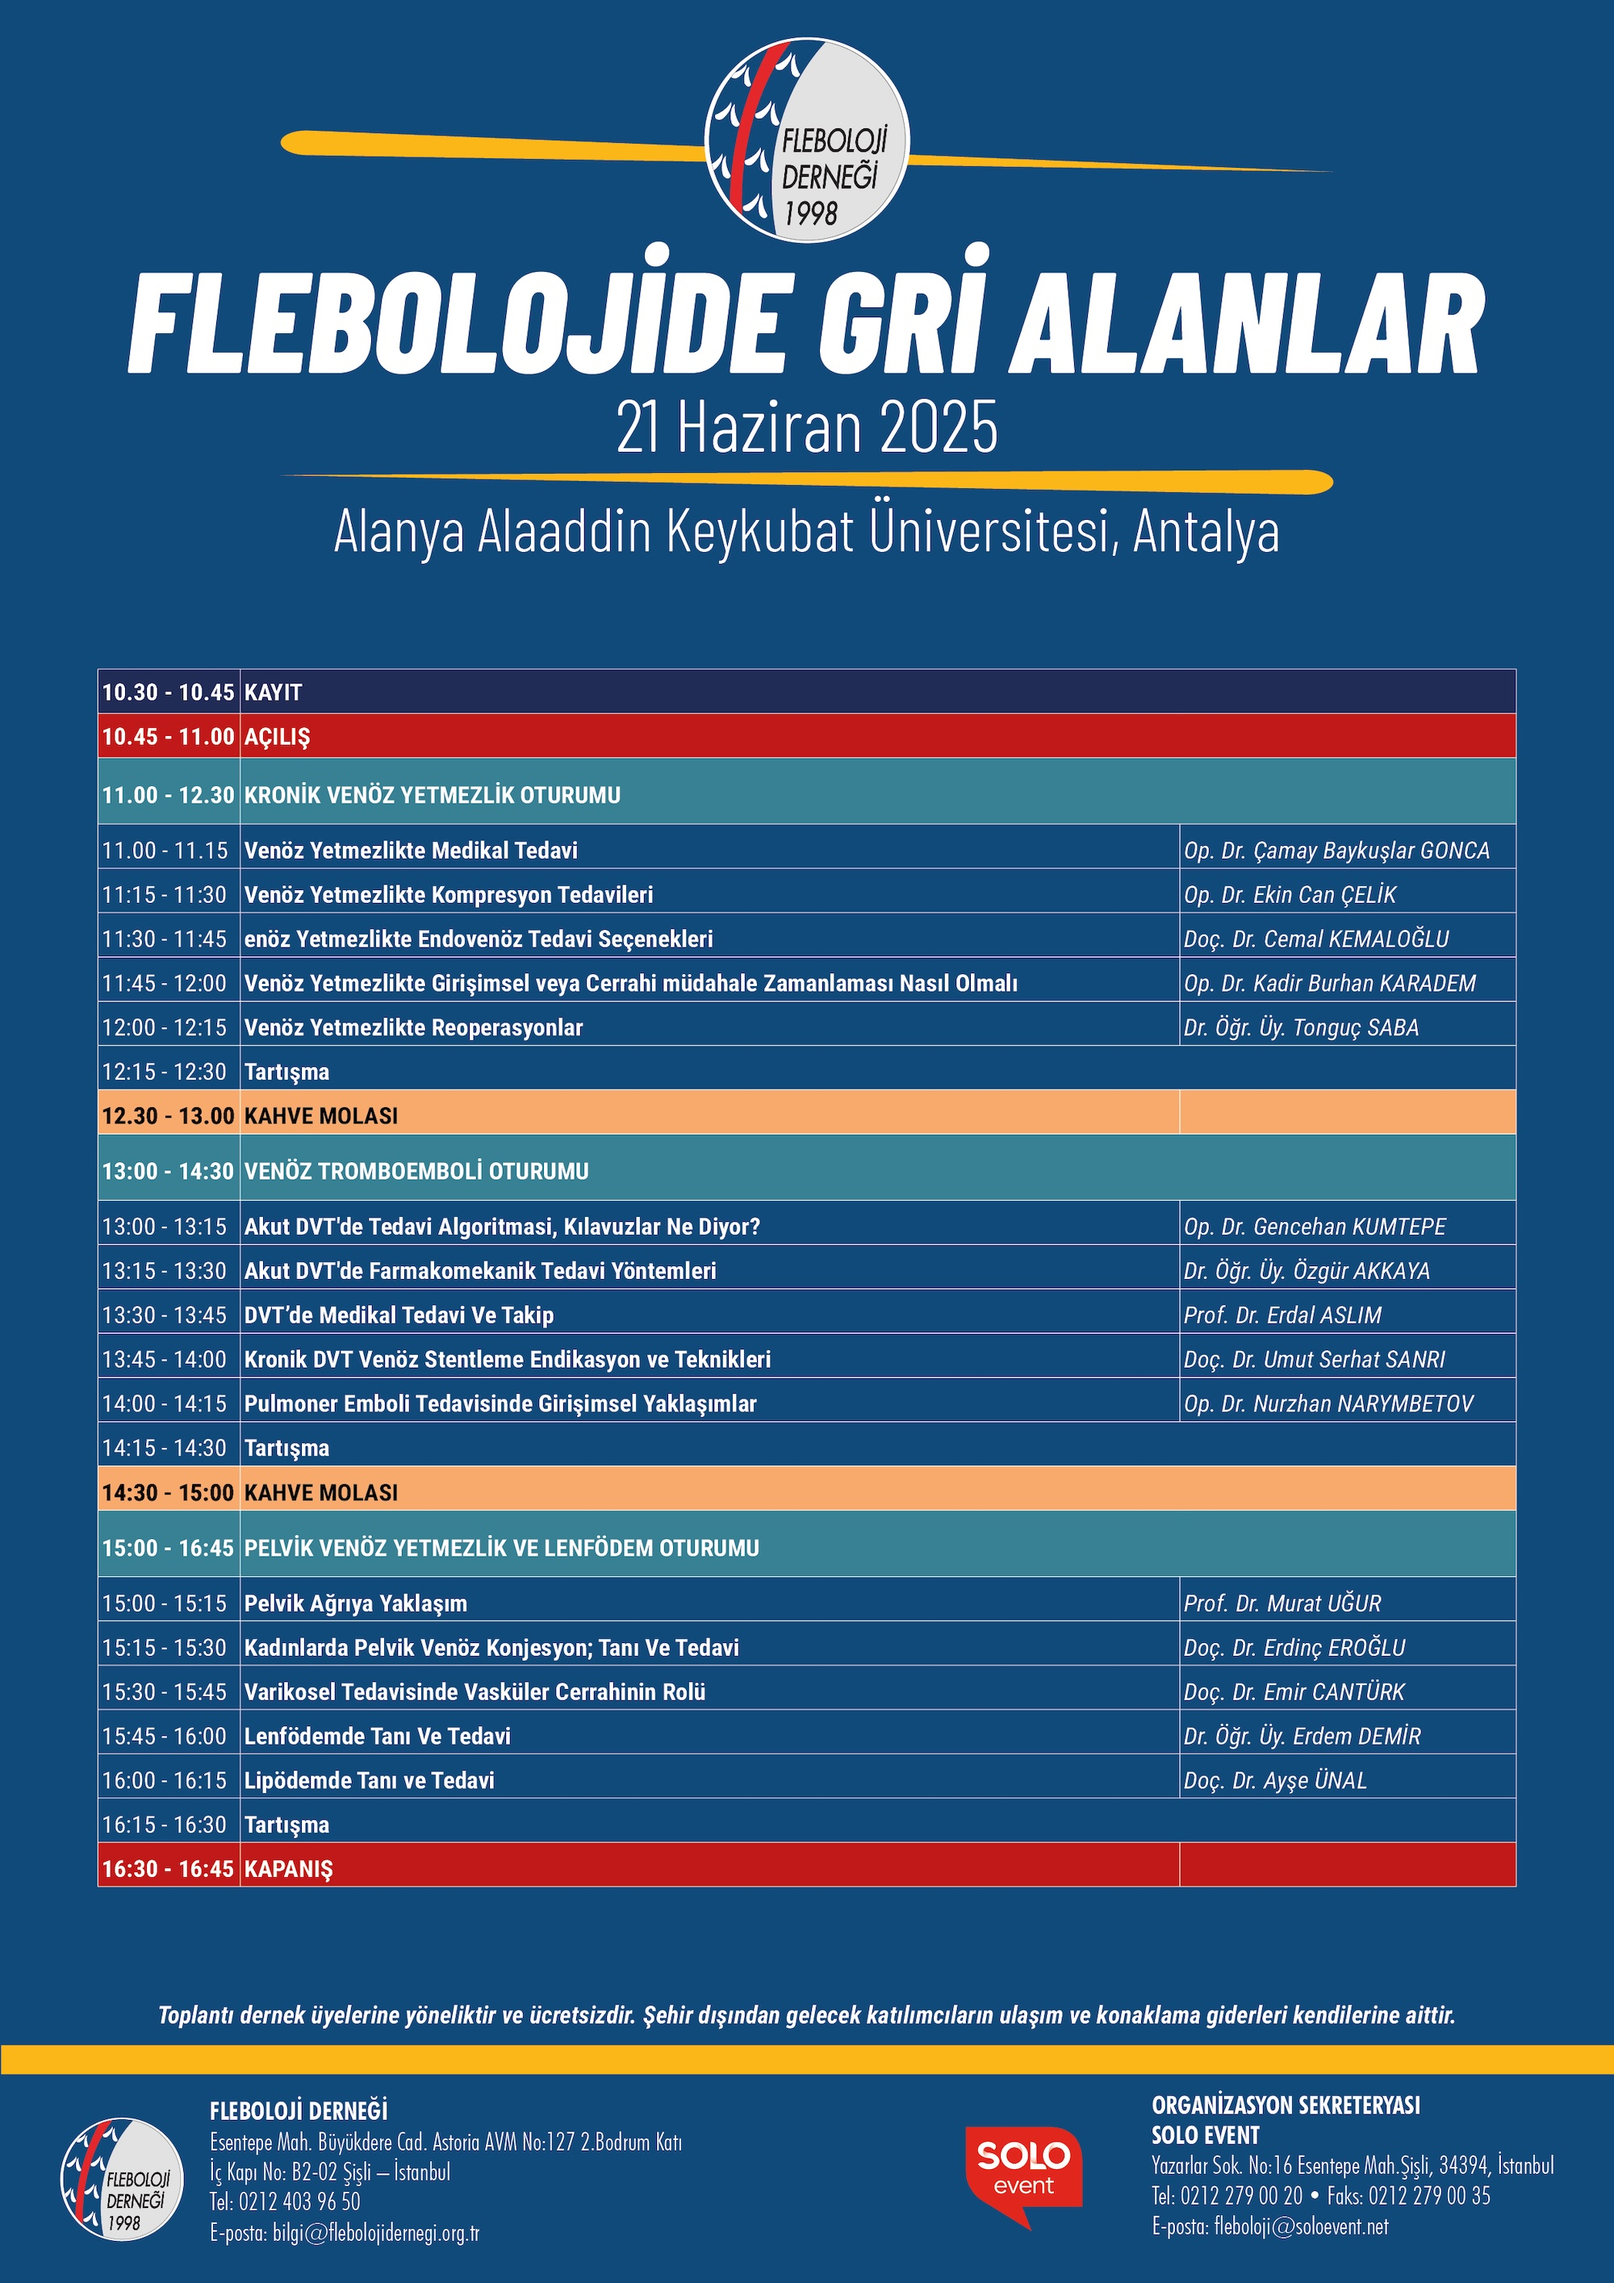
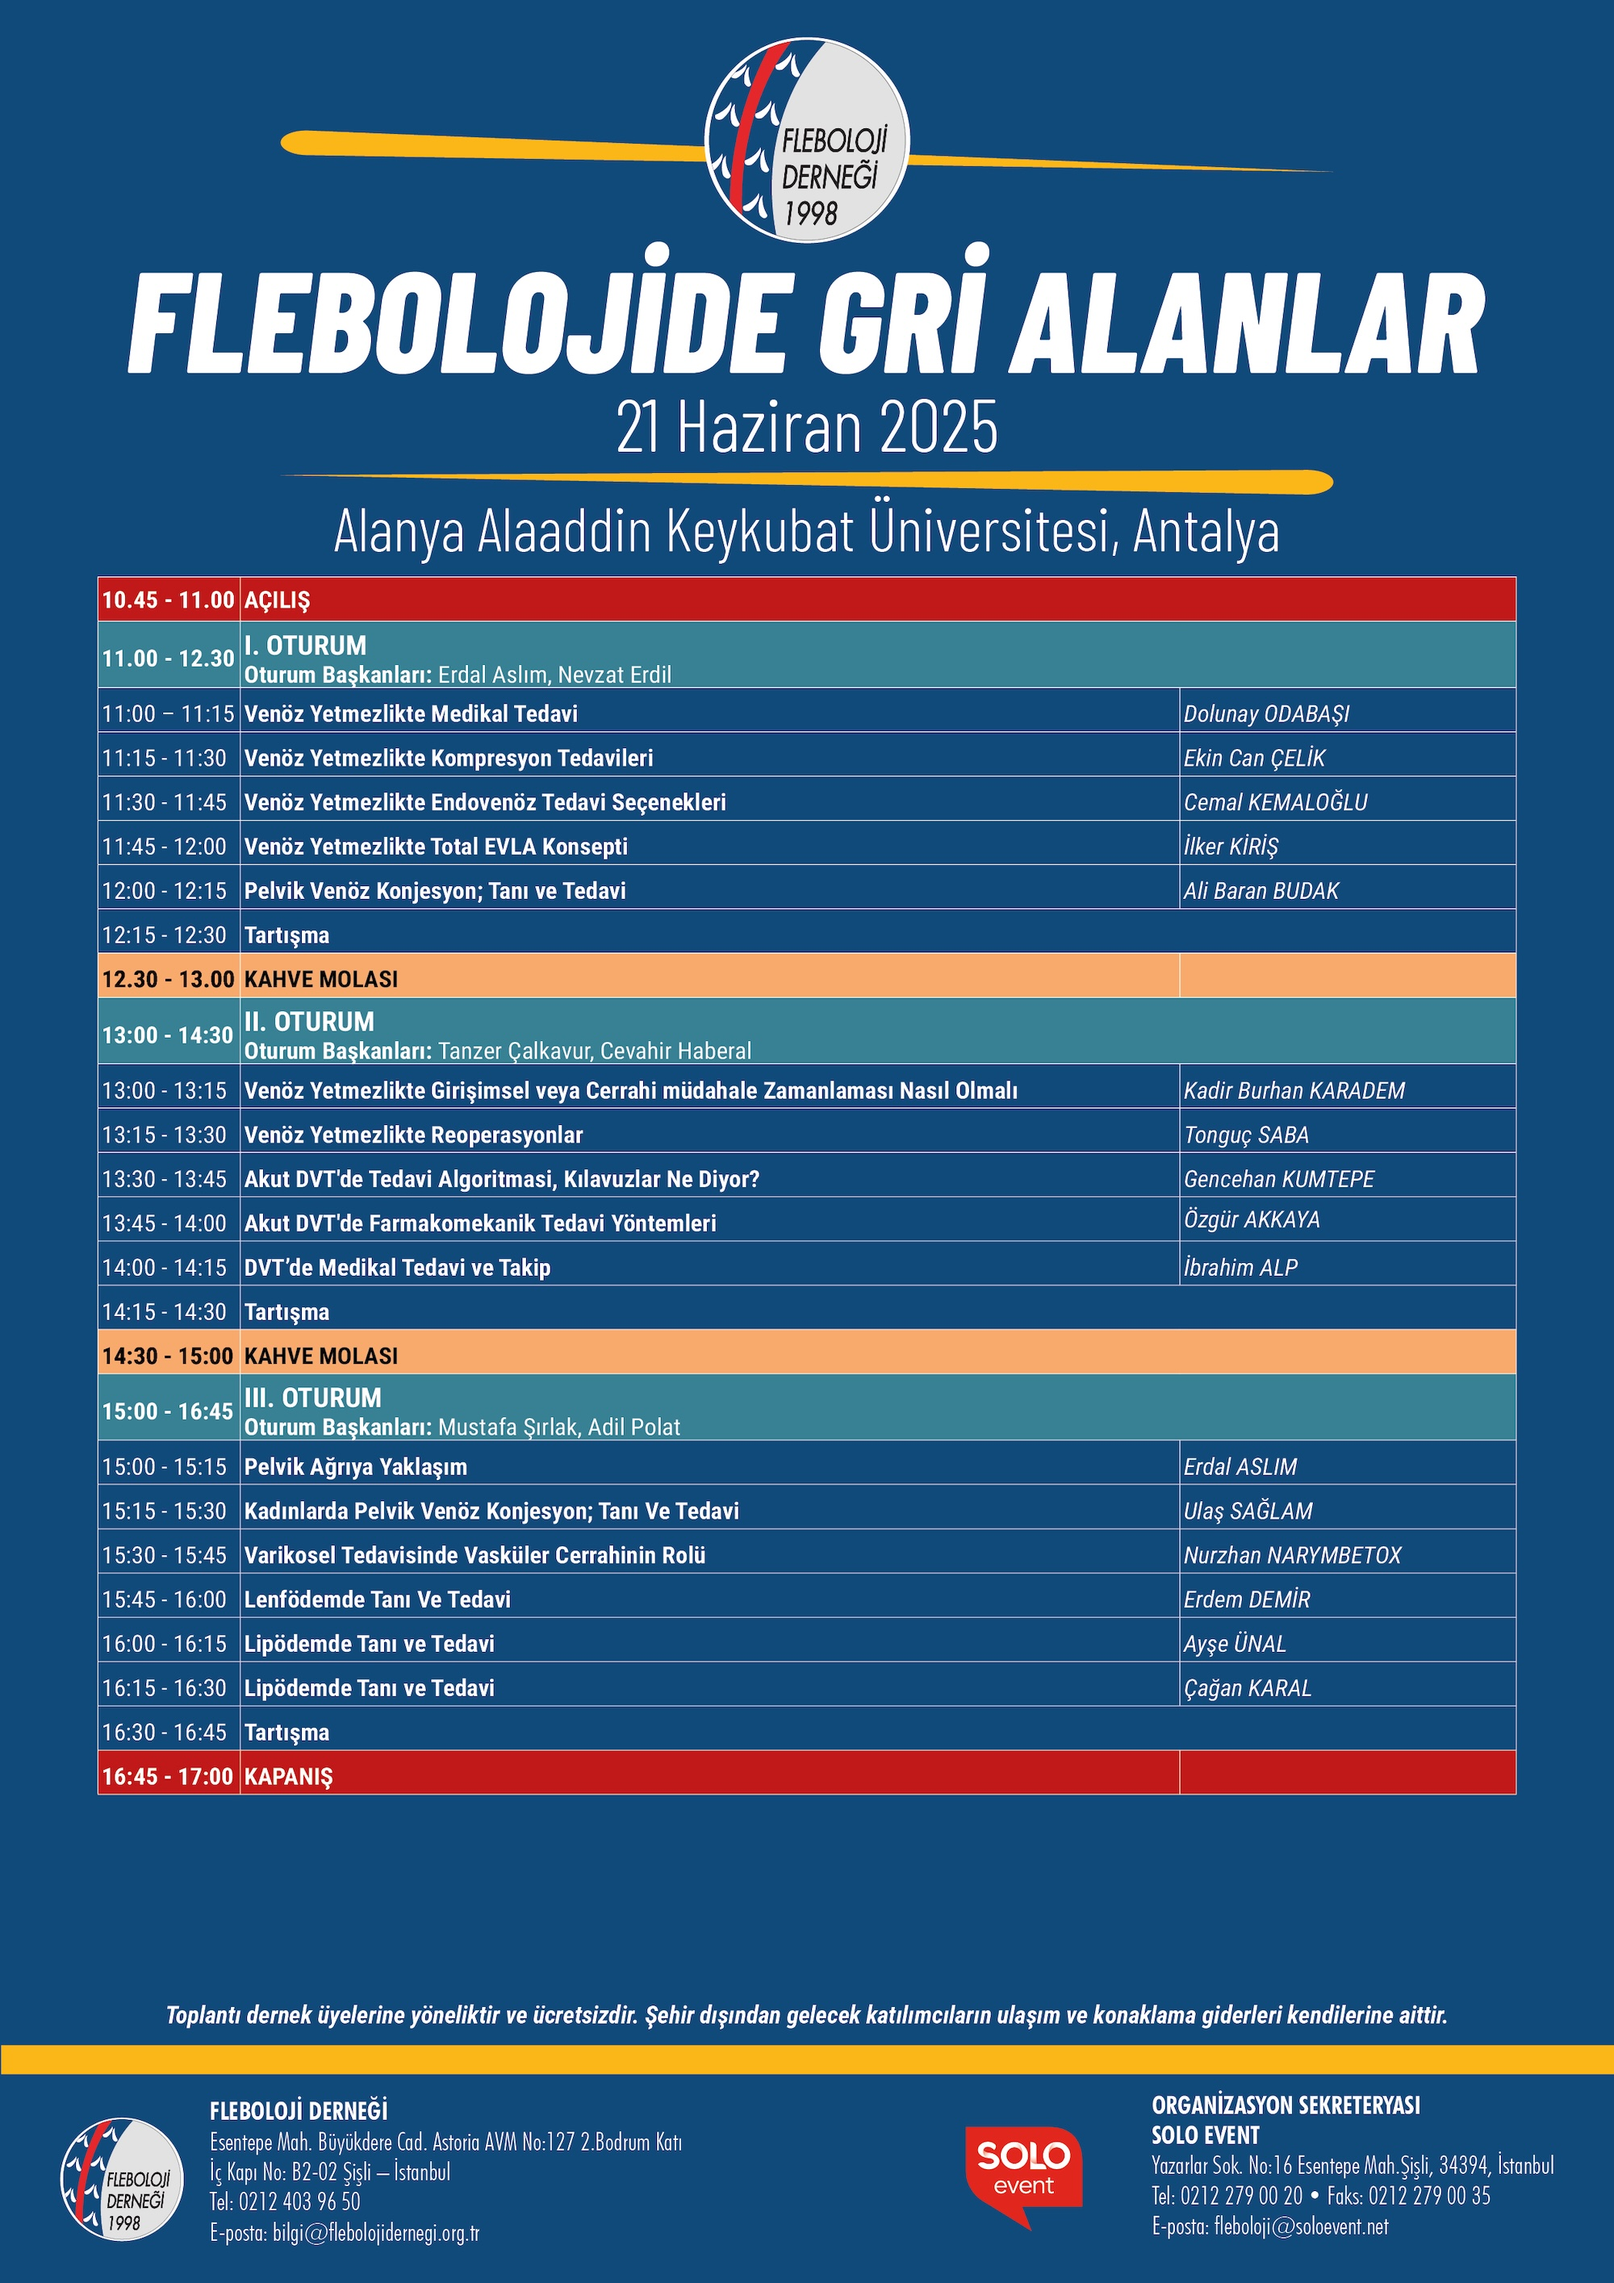
program revize edildi.

diff --git a/duyurular/flebolojide-gri-alanlar-2025-alanya.php b/duyurular/flebolojide-gri-alanlar-2025-alanya.php
@@ -37,7 +37,7 @@
                                 </div>
                                 <div class="td-post-content">
                                     <img src="../doc/duyurular/alanya-kare.jpg">
-<!--                                    <img src="../doc/duyurular/alanya-program.jpg">-->
+                                    <img src="../doc/duyurular/alanya-program.jpg?v=324">
 
                                 </div>
                                 <footer>
